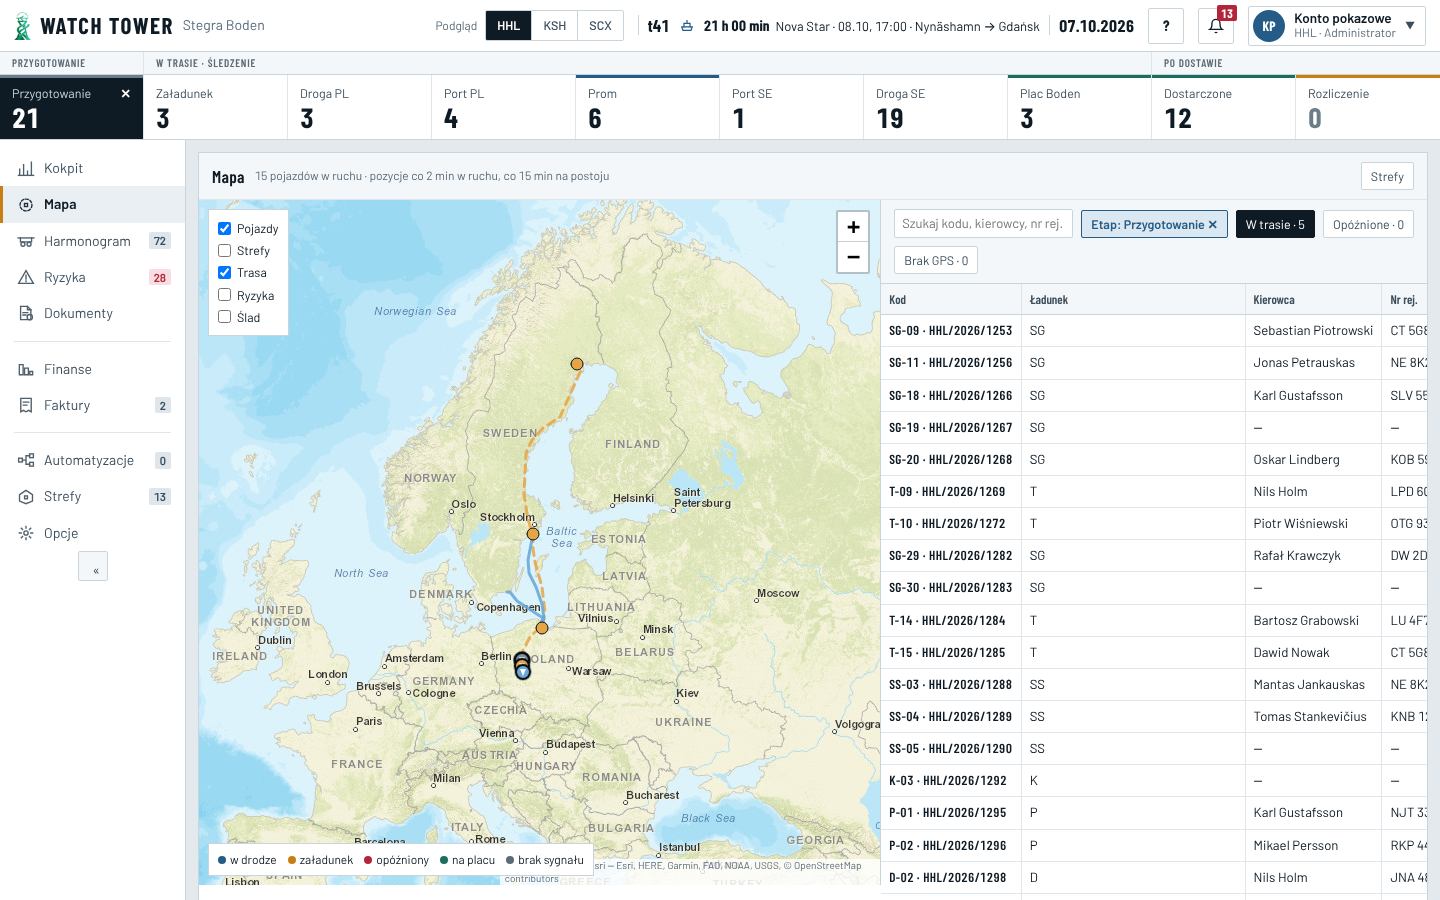
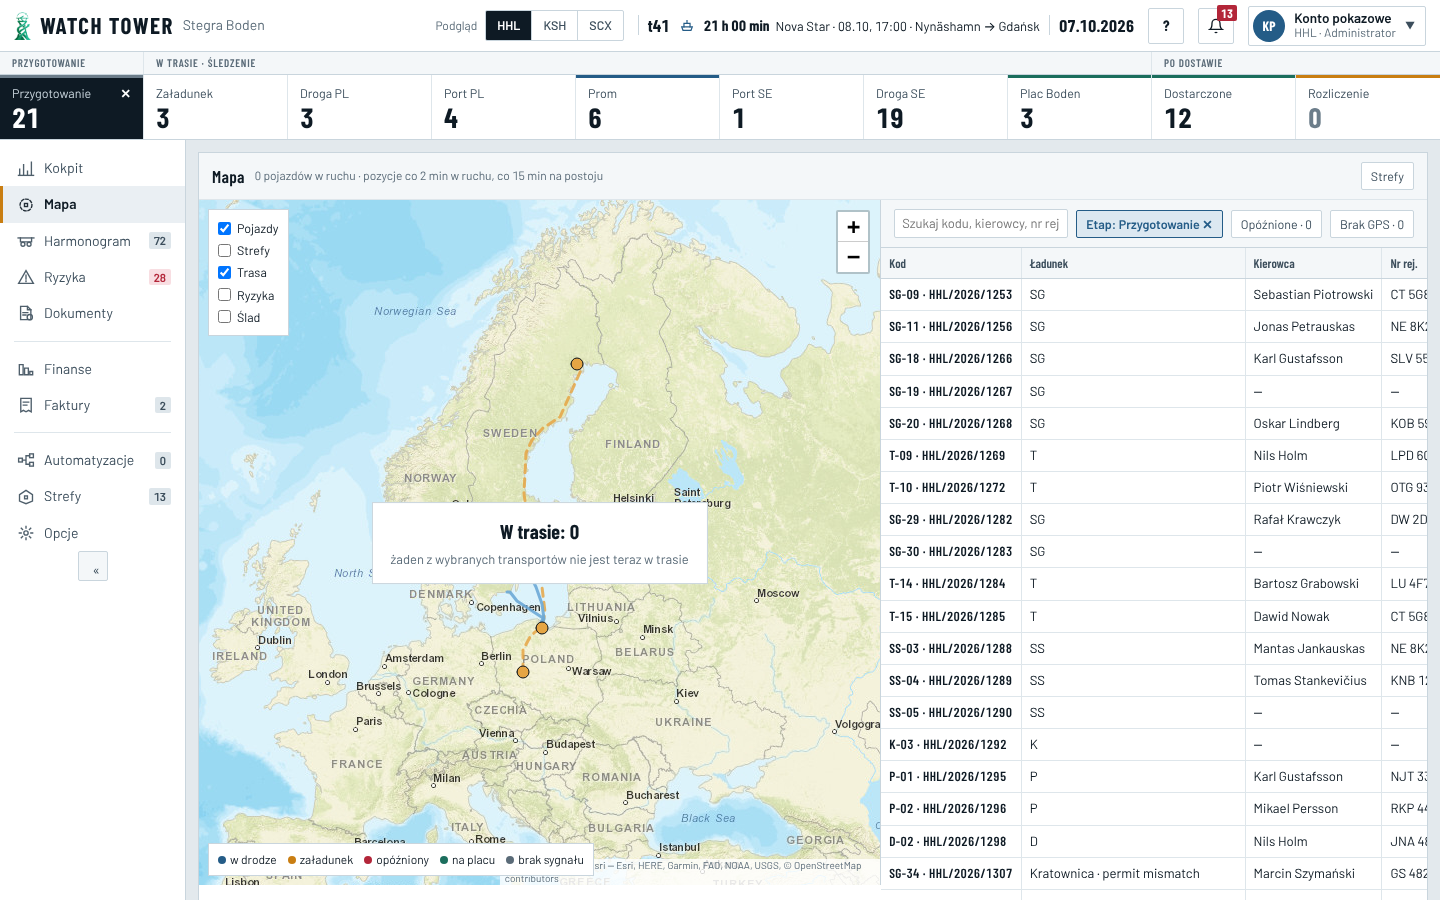
fix(wyglad/P4-a): po niezależnym sprawdzeniu — Mapa liczy auta w trasie, stabilny czas, filtry telefonu, menu „⋯”
- Mapa: znaczniki i „W trasie” = Załadunek … Plac Boden (jak pasek i Kokpit); „Przygotowanie” → „W trasie: 0”;
  liczby chipów = wynik kliknięcia; licznik pojazdów z mapy; „Brak GPS” jak oznaczenie; „+1h35” w tabeli Mapy.
- „Teraz” zaokrąglone do minuty — bez przeliczania list i zapytań o pozycje przy każdym najechaniu.
- Tablice w „Najbliższych włączeniach” z data-content (strażnik walut d-eur-t).
- Telefon: włączony filtr stanu zawsze w rzędzie; „⋯” zamyka się po działaniu, Escape i dotknięciu obok; bez „Kolumn”.
- Kafelek z zakładki „Rejsy” wraca do „Transporty”; chip etapu z nazwą dla czytnika; oznaczenia wielkością liter jak statusy.

Claude-Session: https://claude.ai/code/session_01S36qMbEWpRWj55jt4pBR6E

diff --git a/src/views/MapView.tsx b/src/views/MapView.tsx
@@ -15,9 +15,11 @@ import { vehiclesInMotion } from '../lib/format';
 import { transportLabel } from '../lib/transportName';
 import { StageBar, StageChip } from '../components/shell/StageBar';
 import { StatusMarkers } from '../components/ui/StatusPill';
-import { nextTrackingStarts, trackingPhase } from '../lib/stageTiles';
+import { isOnRoute, nextTrackingStarts, statusMarkers } from '../lib/stageTiles';
+import { delayPillMinutes } from '../lib/prodDash';
+import { delayMinutesVsPlan } from '../lib/time';
 import { filterLoadsForRole } from '../lib/permissions';
-import { getNow, getNowIso } from '../lib/frozenNow';
+import { getNow } from '../lib/frozenNow';
 import { formatTableDay, refYearInOps } from '../lib/time';
 import type { Load } from '../types';
 
@@ -63,7 +65,8 @@ function loadMapWidths(): Record<MapColId, number> {
 /* wyglad/P4 (E27, img/e27-after): W trasie · Opóźnione · Brak GPS */
 type TimingFilter = 'all' | 'late' | 'nogps';
 const isLate = (l: Load) => l.delayed || l.status === 'DELAYED';
-const isNoGps = (l: Load) => l.status === 'SILENT' || (l.silentMinutes != null && l.silentMinutes >= 30);
+/* „Brak GPS” jak oznaczenie obok statusu (L7): tylko w trasie, po 30 min ciszy */
+const isNoGps = (l: Load) => statusMarkers(l, { hasDelayMinutes: true }).includes('nogps');
 
 export function MapView() {
   const loads = useTowerStore((s) => s.loads);
@@ -122,28 +125,30 @@ export function MapView() {
     [loads, role, stageFilter, search],
   );
 
-  /* E27: na mapie tylko transporty w oknie śledzenia (od 03:00 w dniu załadunku do „Dostarczone”).
-     E28: z filtrem etapu tabela pokazuje ten etap (np. 92 w przygotowaniu), mapa — tylko te z nich, które są w trasie. */
-  const nowIso = getNowIso();
-  const tracked = useMemo(() => baseList.filter((l) => trackingPhase(l, nowIso) === 'on'), [baseList, nowIso]);
-  const tableBase = stageFilter ? baseList : tracked;
+  /* E27 / E28: na mapie i w „W trasie” tylko transporty w trasie (Załadunek … Plac Boden — ta sama suma co grupa paska i Kokpit, E9);
+     z filtrem etapu tabela pokazuje ten etap (np. 92 w przygotowaniu), a mapa — tylko te z nich, które są w trasie („W trasie: 0”).
+     „Teraz” zaokrąglone do minuty: listy i znaczniki nie przeliczają się przy każdym najechaniu (bez dodatkowych zapytań). */
+  const nowMin = Math.floor(getNow().getTime() / 60_000);
+  const nowIso = useMemo(() => new Date(nowMin * 60_000).toISOString(), [nowMin]);
+  const tableBase = useMemo(() => (stageFilter ? baseList : baseList.filter(isOnRoute)), [baseList, stageFilter]);
   const list = useMemo(() => {
     if (timing === 'late') return tableBase.filter(isLate);
     if (timing === 'nogps') return tableBase.filter(isNoGps);
     return tableBase;
   }, [tableBase, timing]);
-  const onMap = useMemo(() => list.filter((l) => trackingPhase(l, nowIso) === 'on'), [list, nowIso]);
+  const onMap = useMemo(() => list.filter(isOnRoute), [list]);
   const nextStarts = useMemo(() => nextTrackingStarts(filterLoadsForRole(loads, role), nowIso, 3), [loads, role, nowIso]);
   const refYear = refYearInOps(getNow());
+  const filtersOn = !!stageFilter || !!search.trim() || timing !== 'all';
 
   /* E: licznik „N pojazdów” = tylko pojazdy z prawdziwą pozycją GPS (prod); demo = progress w ruchu. */
   useEffect(() => {
     if (import.meta.env.VITE_AUTH_MODE !== 'supabase') {
-      setGpsWithFix(list.filter((l) => l.progress > 0 && l.progress < 1).length);
+      setGpsWithFix(onMap.filter((l) => l.progress > 0 && l.progress < 1).length);
       return undefined;
     }
     let cancelled = false;
-    const ids = list.map((l) => l.id);
+    const ids = onMap.map((l) => l.id);
     const run = () => {
       void import('../lib/vehiclePositions').then(({ fetchLatestVehicleFixes }) => fetchLatestVehicleFixes(ids)).then(
         (rows) => {
@@ -157,11 +162,12 @@ export function MapView() {
     run();
     const id = window.setInterval(run, 60_000);
     return () => { cancelled = true; window.clearInterval(id); };
-  }, [list]);
+  }, [onMap]);
 
 
-  const lateCount = tracked.filter(isLate).length;
-  const nogpsCount = tracked.filter(isNoGps).length;
+  /* liczby przy chipach = to, co pokaże kliknięcie (E28 pkt 6) */
+  const lateCount = tableBase.filter(isLate).length;
+  const nogpsCount = tableBase.filter(isNoGps).length;
 
   const startResize = (id: MapColId, clientX: number) => {
     const startW = widthsRef.current[id] ?? 80;
@@ -221,7 +227,7 @@ export function MapView() {
               /* E27: nikogo w oknie śledzenia — mapa bez znaczników z informacją na środku */
               <div className="map-empty" data-map-empty>
                 <b>{t(locale, 'p4_map_empty')}</b>
-                <span>{t(locale, 'p4_map_empty_sub')}</span>
+                <span>{t(locale, filtersOn ? 'p4_map_empty_sub_f' : 'p4_map_empty_sub')}</span>
               </div>
             ) : null}
           </div>
@@ -237,15 +243,18 @@ export function MapView() {
               onChange={(e) => setSearch(e.target.value)}
             />
             <StageChip />
-            <button
-              type="button"
-              className="chipbtn"
-              data-timing="all"
-              aria-pressed={timing === 'all'}
-              onClick={() => setTiming('all')}
-            >
-              {tp(locale, 'p4_map_on', { n: tracked.length })}
-            </button>
+            {/* z filtrem etapu „W trasie” zastępuje chip etapu (liczby niżej = ten etap) */}
+            {stageFilter ? null : (
+              <button
+                type="button"
+                className="chipbtn"
+                data-timing="all"
+                aria-pressed={timing === 'all'}
+                onClick={() => setTiming('all')}
+              >
+                {tp(locale, 'p4_map_on', { n: tableBase.length })}
+              </button>
+            )}
             <button
               type="button"
               className="chipbtn"
@@ -326,7 +335,7 @@ export function MapView() {
                       <td>
                         <span className="cell-clip">
                           <StatusPill status={l.status} stage={l.stage} />
-                          <StatusMarkers load={l} delayMin={null} />
+                          <StatusMarkers load={l} delayMin={delayPillMinutes(l, delayMinutesVsPlan(l.etaBoden, l.plannedDeliverDate, l.planDates?.deliveryTo), PROD_BUILD)} />
                         </span>
                       </td>
                       <td>
@@ -365,7 +374,7 @@ export function MapView() {
                     {noTrailer ? (
                       <span className="map-next-warn">{t(locale, gi === 0 ? 'p4_map_no_trailer_todo' : 'p4_map_no_trailer')}</span>
                     ) : (
-                      <span className="muted">{plates.join(', ')}</span>
+                      <span className="muted" data-content>{plates.join(', ')}</span>
                     )}
                   </div>
                 );

diff --git a/src/views/ScheduleView.tsx b/src/views/ScheduleView.tsx
@@ -115,6 +115,19 @@ export function ScheduleView() {
   const phone = useIsPhone();
   const [actionsOpen, setActionsOpen] = useState(false);
   const [filtersOpen, setFiltersOpen] = useState(false);
+  /* „⋯” zamyka się po działaniu, Escape i dotknięciu obok */
+  const morePopRef = useRef<HTMLDivElement | null>(null);
+  useEffect(() => {
+    if (!actionsOpen) return undefined;
+    const onKey = (e: KeyboardEvent) => { if (e.key === 'Escape') setActionsOpen(false); };
+    const onDown = (e: PointerEvent) => {
+      const el = morePopRef.current;
+      if (el && !el.contains(e.target as Node)) setActionsOpen(false);
+    };
+    window.addEventListener('keydown', onKey);
+    window.addEventListener('pointerdown', onDown);
+    return () => { window.removeEventListener('keydown', onKey); window.removeEventListener('pointerdown', onDown); };
+  }, [actionsOpen]);
   /* III-2 (SCOPE 0.9, makieta go()): krótki szkielet tabeli po wejściu w widok — wiersze w rytmie tabeli, nigdy spinner */
   const [skeleton, setSkeleton] = useState(true);
   useEffect(() => { const id = window.setTimeout(() => setSkeleton(false), SKELETON_MS); return () => window.clearTimeout(id); }, []);
@@ -127,6 +140,12 @@ export function ScheduleView() {
 
   // B-9 C: ten sam filtr kafelka (stageFilter) działa też w Harmonogramie
   const stageFilter = useTowerStore((s) => s.stageFilter);
+  /* kafelek paska pokazuje transporty — z zakładki „Rejsy” wracamy do „Transporty”, żeby filtr był widoczny */
+  const [prevStage, setPrevStage] = useState(stageFilter);
+  if (stageFilter !== prevStage) {
+    setPrevStage(stageFilter);
+    if (stageFilter) setSchedTab('loads');
+  }
   const updateResources = useTowerStore((s) => s.updateResources);
   const [loadFrom, setLoadFrom] = useState('');
   const [loadTo, setLoadTo] = useState('');
@@ -711,7 +730,7 @@ export function ScheduleView() {
         {phone ? (
           <>
             {/* telefon (E8, E28): szukajka i „⋯”, pasek etapów, filtry stanu i „Filtry ▾” */}
-            <div className="filters sched-ph-search">
+            <div className="filters sched-ph-search" ref={morePopRef}>
               <input
                 type="search"
                 placeholder={t(locale, 'search')}
@@ -728,13 +747,20 @@ export function ScheduleView() {
               >
                 ⋯
               </button>
-              {actionsOpen ? <div className="sched-actions sched-actions-pop">{actionButtons}</div> : null}
+              {actionsOpen ? (
+                <div
+                  className="sched-actions sched-actions-pop"
+                  onClick={(e) => { if ((e.target as HTMLElement).closest('button')) setActionsOpen(false); }}
+                >
+                  {actionButtons}
+                </div>
+              ) : null}
             </div>
             <StageBar variant="page" />
             <div className="filters" data-sched-filters>
               <StageChip />
-              {/* z filtrem etapu w rzędzie zostaje chip etapu i „Filtry ▾” (makieta E28, telefon) */}
-              {stageFilter ? null : chips.filter((c) => c.phoneRow).map(chipBtn)}
+              {/* z filtrem etapu w rzędzie zostaje chip etapu i „Filtry ▾” (makieta E28, telefon); włączony filtr stanu zawsze widać */}
+              {chips.filter((c) => (!stageFilter && c.phoneRow) || quick === c.id).map(chipBtn)}
               <button type="button" className="chipbtn" aria-expanded={filtersOpen} data-sched-more-filters onClick={() => setFiltersOpen((v) => !v)}>
                 {t(locale, filtersOpen ? 'p4_f_more_open' : 'p4_f_more')}
               </button>
@@ -743,7 +769,7 @@ export function ScheduleView() {
             </div>
             {filtersOpen ? (
               <div className="filters sched-more-filters">
-                {chips.filter((c) => !c.phoneRow || !!stageFilter).map(chipBtn)}
+                {chips.filter((c) => !((!stageFilter && c.phoneRow) || quick === c.id)).map(chipBtn)}
                 <label className="muted" title={t(locale, 'a6_sch_dates')}>
                   {t(locale, 'a6_sch_dates')}{' '}
                   <input type="date" value={loadFrom} onChange={(e) => setLoadFrom(e.target.value)} aria-label={t(locale, 'a6_sch_dates')} />

diff --git a/src/i18n/messages.ts b/src/i18n/messages.ts
@@ -204,6 +204,7 @@ const pl: Dict = {
   p4_bar_filter: 'Pokaż etap „{stage}” ({n~transport|transporty|transportów})',
   p4_bar_clear: 'Zdejmij filtr etapu',
   p4_chip: 'Etap: {stage} ✕',
+  p4_chip_aria: 'Etap: {stage}. Zdejmij filtr',
   p4_count: '{n} z {total}',
   p4_f_late: 'Opóźnione',
   p4_f_nodocs: 'Bez dokumentów',
@@ -213,15 +214,16 @@ const pl: Dict = {
   p4_f_more_open: 'Filtry ▴',
   p4_actions_more: 'Więcej działań',
   p4_tab_loads: 'Transporty {n}',
-  p4_m_late: 'OPÓŹNIONY',
-  p4_m_nogps: 'BRAK GPS',
-  p4_m_nodocs: 'BRAK DOKUMENTÓW',
+  p4_m_late: 'Opóźniony',
+  p4_m_nogps: 'Brak GPS',
+  p4_m_nodocs: 'Brak dokumentów',
   p4_map_sub: 'pozycje co 2 min w ruchu, co 15 min na postoju',
   p4_map_on: 'W trasie · {n}',
   p4_map_late: 'Opóźnione · {n}',
   p4_map_nogps: 'Brak GPS · {n}',
   p4_map_empty: 'W trasie: 0',
   p4_map_empty_sub: 'nikt nie jest teraz w trasie',
+  p4_map_empty_sub_f: 'żaden z wybranych transportów nie jest teraz w trasie',
   p4_map_next: 'Najbliższe włączenia śledzenia',
   p4_map_next_at: '{day}, 03:00',
   p4_map_no_trailer: 'brak naczepy',

diff --git a/src/components/shell/StageBar.tsx b/src/components/shell/StageBar.tsx
@@ -111,6 +111,7 @@ export function StageChip() {
       className="chipbtn sbar-chip"
       data-stage-chip={stageFilter}
       title={t(locale, 'p4_bar_clear')}
+      aria-label={tp(locale, 'p4_chip_aria', { stage: t(locale, `p4_tile_${stageFilter}`) })}
       onClick={() => useTowerStore.getState().navigateTo({ stage: null })}
     >
       {tp(locale, 'p4_chip', { stage: t(locale, `p4_tile_${stageFilter}`) })}

diff --git a/src/index.css b/src/index.css
@@ -1459,3 +1459,7 @@ img,video{max-width:100%;height:auto}
   .sbar-tile{padding:9px 8px 8px}
   .sbar-grp span{padding:3px 8px}
 }
+@media (max-width:768px){
+  /* „Kolumny” dotyczą tabeli na komputerze — na telefonie lista to karty */
+  .sched-actions-pop .sched-col-picker{display:none}
+}

diff --git a/docs/handover/odbior/P4/POROWNANIE.md b/docs/handover/odbior/P4/POROWNANIE.md
@@ -27,17 +27,17 @@ Zrzuty z demo, zamrożony czas 07.10.2026, 20:00. Liczby w demo są inne niż na
 | pasek — kafelek | nazwa 12,5 px, liczba 28 px, bez linii podpowiedzi; zero wyszarzone | to samo; wysokość 62 px | tak | zero w kolorze `--plan` (#6C7D8A), bo jasnoszary z makiety (#9AAAB6) nie spełnia kontrastu 3 : 1 |
 | pasek — kolor nad kafelkiem | Przygotowanie szary, Prom morski, Plac Boden i Dostarczone zielony, Rozliczenie bursztynowy | to samo | tak | pasek 3 px rysowany elementem `::before` (cień jest zabroniony regułą stylów) |
 | pasek — włączony | ciemny kafelek, biała liczba, „✕” po prawej | to samo; w ciemnym motywie jasny kafelek z ciemnym tekstem (jak inne przełączniki) | tak | — |
-| przypisanie | według statusów E25; „Na placu” → Plac Boden (nie Nynäshamn), „Rozładowany” → Dostarczone | to samo (`src/lib/stageTiles.ts`) | tak | Port SE: aplikacja nie ma jeszcze osobnego statusu dla portu SE (baza `AT_PORT_NYNASHAMN` → `IN_TRANSIT_SE`), więc dziś 0 — dopisek; kafelek przyjmie `AT_PORT_SE` bez zmian |
+| przypisanie | według statusów E25; „Na placu” → Plac Boden (nie Nynäshamn), „Rozładowany” → Dostarczone | to samo (`src/lib/stageTiles.ts`) | częściowo | Port SE: aplikacja nie ma jeszcze osobnego statusu dla portu SE (baza `AT_PORT_NYNASHAMN` → `IN_TRANSIT_SE`, `src/data/mappers.ts`), więc w produkcji port SE liczy się jako Droga SE — dopisek D-20261014-0315-01 H1; kafelek przyjmie `AT_PORT_SE` bez zmian wyglądu |
 | kliknięcie | Harmonogram — na miejscu; Mapa — na miejscu; Kokpit, Ryzyka, Dokumenty, Finanse, Faktury, Strefy, Opcje → Mapa z filtrem | to samo | tak | drugi klik, „✕” albo Escape zdejmuje filtr |
 | każda firma | liczy tylko swoje transporty | to samo (`filterLoadsForRole`) | tak | — |
 | Harmonogram — filtry (komputer) | „Etap: Plac Boden ✕” · Opóźnione 5 · Bez dokumentów · Bez kierowcy · Bez ciągnika | to samo; licznik „3 z 72” | tak | 7 przycisków etapów, „Wszystkie”, „W drodze” i „Dostarczone” znikają (E28 pkt 2); daty i szukajka zostają |
-| Harmonogram — telefon | pasek przewijany nad listą; Opóźnione 5 · Bez dokumentów · Filtry ▾; z filtrem: „Etap: Plac Boden ✕” · Filtry ▾ | to samo; nad paskiem „Transporty 72 \| Rejsy” i szukajka z „⋯” (E8); pod „Filtry ▾”: Bez kierowcy, Bez ciągnika, daty, „Jak działa” | tak | „⋯” = Wgraj aktualizacje, Zapisz widok, Kolumny, Eksport XLSX, Eksport PDF (E8); linia wersji pliku tylko na komputerze |
-| Mapa — chipy | W trasie · 0 · Opóźnione · 0 · Brak GPS · 0 | to samo, pod mapą nad tabelą; z filtrem etapu także chip „Etap: … ✕” | tak | „Wszystkie”, „Terminowe” i „Ryzyko” znikają |
-| Mapa — znaczniki | tylko transporty w oknie śledzenia (od 03:00 w dniu załadunku do „Dostarczone”) | to samo; tabela bez filtra etapu = w trasie, z filtrem = ten etap (np. przygotowanie) | tak | okno liczone w aplikacji według E27 (`trackingPhase`); przypisanie pozycji robi baza (wykonawca) |
-| Mapa — pusto | „W trasie: 0 · nikt nie jest teraz w trasie” na środku mapy | to samo | tak | — |
+| Harmonogram — telefon | pasek przewijany nad listą; Opóźnione 5 · Bez dokumentów · Filtry ▾; z filtrem: „Etap: Plac Boden ✕” · Filtry ▾ | to samo; nad paskiem „Transporty 72 \| Rejsy” i szukajka z „⋯” (E8); pod „Filtry ▾”: Bez kierowcy, Bez ciągnika, daty, „Jak działa”; włączony filtr stanu zawsze widać w rzędzie | tak | „⋯” = Wgraj aktualizacje, Zapisz widok, Eksport XLSX, Eksport PDF (E8); zamyka się po działaniu, Escape i dotknięciu obok; „Kolumny” tylko na komputerze (na telefonie lista to karty); linia wersji pliku tylko na komputerze |
+| Mapa — chipy | W trasie · 0 · Opóźnione · 0 · Brak GPS · 0 | to samo, pod mapą nad tabelą; z filtrem etapu chip „Etap: … ✕” zamiast „W trasie”; liczby = to, co pokaże kliknięcie | tak | „Wszystkie”, „Terminowe” i „Ryzyko” znikają; „Brak GPS” jak oznaczenie (tylko w trasie, 30 min ciszy) |
+| Mapa — znaczniki | auta w trasie; „Przygotowanie” → mapa bez znaczników („W trasie: 0”), tabela: transporty w przygotowaniu (e28-after) | to samo: znaczniki i „W trasie” = Załadunek … Plac Boden (ta sama suma co grupa paska i Kokpit); tabela bez filtra etapu = w trasie, z filtrem = ten etap | tak | transport w przygotowaniu po 03:00 dnia załadunku (okno E27) dostaje znacznik, gdy baza przypisze mu pozycję i zmieni status na Załadunek — logika wykonawcy |
+| Mapa — pusto | „W trasie: 0 · nikt nie jest teraz w trasie” na środku mapy | to samo; przy filtrze albo szukaniu: „żaden z wybranych transportów nie jest teraz w trasie” | tak | — |
 | Mapa — najbliższe włączenia | „08.10, 03:00 · SG-15, SG-16 — brak naczepy → „Do zrobienia” SCX”; „21.10, 03:00 · SG-24 — naczepa TGGG1111” | to samo, 3 najbliższe dni | tak | „→ „Do zrobienia” SCX” przy pierwszym dniu z brakiem naczepy |
 | Mapa — nagłówek | „pozycje co 2 min w ruchu, co 15 min na postoju” | to samo | tak | — |
-| oznaczenia obok statusu (L7) | Opóźniony / Brak GPS / Brak dokumentów obok statusu; „+21H05” przy opóźnieniu | „+1h35” (gdy aplikacja zna minuty), inaczej OPÓŹNIONY; BRAK GPS po 30 min ciszy w trasie; BRAK DOKUMENTÓW po starcie przewozu | tak | „Opóźniony” i „Cichy” jako status pokazują nazwę etapu (np. „W drodze SE”) z oznaczeniem; w Harmonogramie (tabela i karty) i w tabeli Mapy |
+| oznaczenia obok statusu (L7) | Opóźniony / Brak GPS / Brak dokumentów obok statusu; „+21H05” przy opóźnieniu | „+1h35” (gdy aplikacja zna minuty), inaczej „Opóźniony”; „Brak GPS” po 30 min ciszy w trasie; „Brak dokumentów” po starcie przewozu | tak | pigułki jak inne w aplikacji (wielkość liter jak statusy); „Opóźniony” i „Cichy” jako status pokazują nazwę etapu (np. „W drodze SE”) z oznaczeniem; w Harmonogramie (tabela i karty) i w tabeli Mapy; w panelu transportu — P4-b |
 
 ### Konta (Z11)
 
@@ -61,10 +61,18 @@ Zrzuty z demo, zamrożony czas 07.10.2026, 20:00. Liczby w demo są inne niż na
   - najbliższe włączenia;
   - oznaczenia L7.
 - Pasek na komputerze bez uciętych nazw przy 800, 1024, 1100, 1280, 1366 i 1440 px; poniżej 1000 px przewija się w bok, jak dawny pasek.
+- Niezależne sprawdzenie (agent kontrolny koordynatora, 14.10 ok. 02:55–03:25) na pierwszej wersji (`f644268`). Poprawione w drugim commicie:
+  - tablice rejestracyjne w „Najbliższych włączeniach” łapał strażnik walut (`d-eur-t.spec.ts`, „KR 5N867” ~ „kr”) — `data-content`;
+  - w produkcji lista i znaczniki Mapy przeliczały się przy każdym najechaniu (czas z milisekundami), co dawało dodatkowe zapytania o pozycje — czas zaokrąglony do minuty;
+  - „W trasie” i znaczniki liczyły też transporty w przygotowaniu po dacie załadunku (44 zamiast 39 z paska) — teraz tylko w trasie, jak pasek i Kokpit; „Przygotowanie” → „W trasie: 0”, jak na obrazie;
+  - liczby chipów Mapy przy filtrze etapu nie zgadzały się z listą; licznik pojazdów w nagłówku liczył tabelę zamiast mapy;
+  - na telefonie włączony filtr stanu mógł zostać schowany pod „Filtry ▾” (pusta lista bez wyjaśnienia) — teraz zawsze widać go w rzędzie;
+  - „⋯” na telefonie nie zamykało się; „Kolumny” wychodziły pod dolny pasek — na telefonie bez „Kolumn”;
+  - „Brak GPS” na chipie i przy statusie miał dwie definicje; z zakładki „Rejsy” kafelek filtrował niewidocznie (teraz wraca do „Transporty”); chip etapu ma czytelną nazwę dla czytnika ekranu; tabela Mapy pokazuje „+1h35” jak Harmonogram.
 - Testy przepisane (E28, komentarz w teście):
   - `tests/l11-spine.test.ts`: 10 kafelków z liczbą zamiast 9 bez cyfr;
   - `tests/visual-states.spec.ts` („stan-wciśnięty”): filtry przez `data-quick`.
-  - `stan-zablokowany` klika dalej czwarty chip (dziś „Bez ciągnika”). Nie ruszałem tej linii, bo zaraz pod nią zmienia ten test PR #181 — dopisek.
+  - `stan-zablokowany` klika dalej czwarty chip (dziś „Bez ciągnika”). Nie ruszałem tej linii, bo zaraz pod nią zmienia ten test PR #181 — dopisek D-20261014-0315-01 H2.
 
 ### Pliki
 
